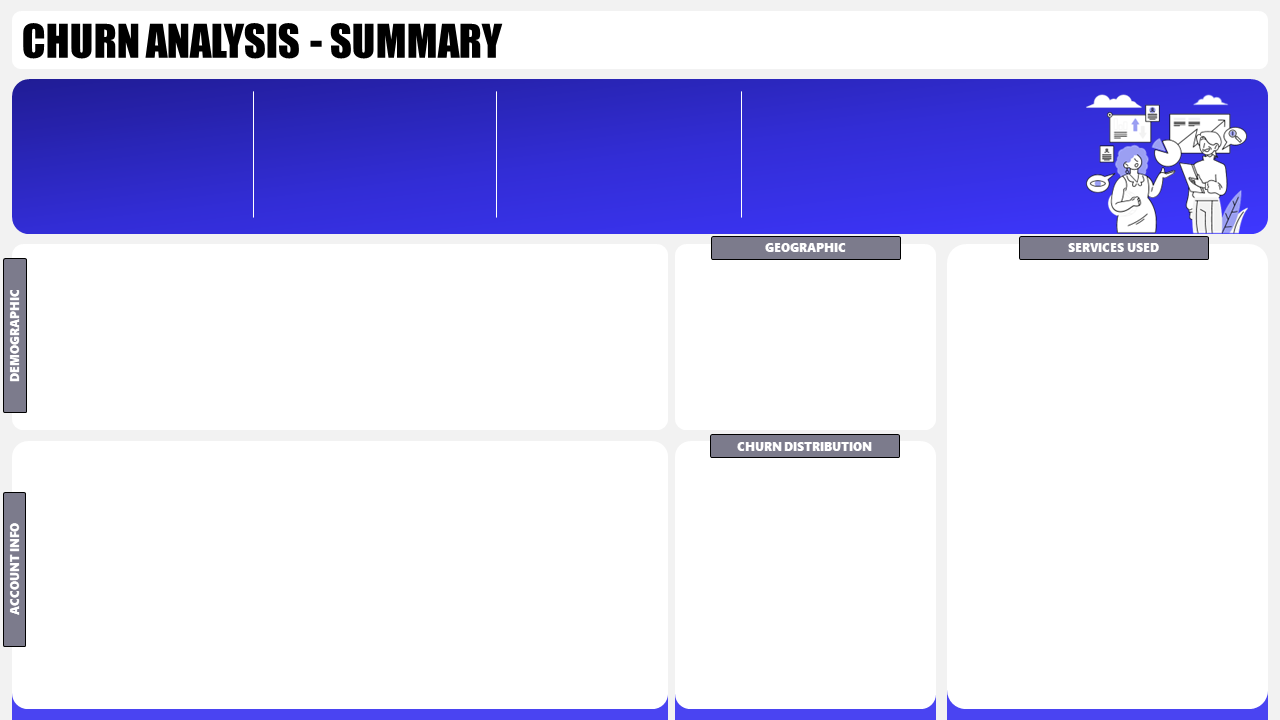
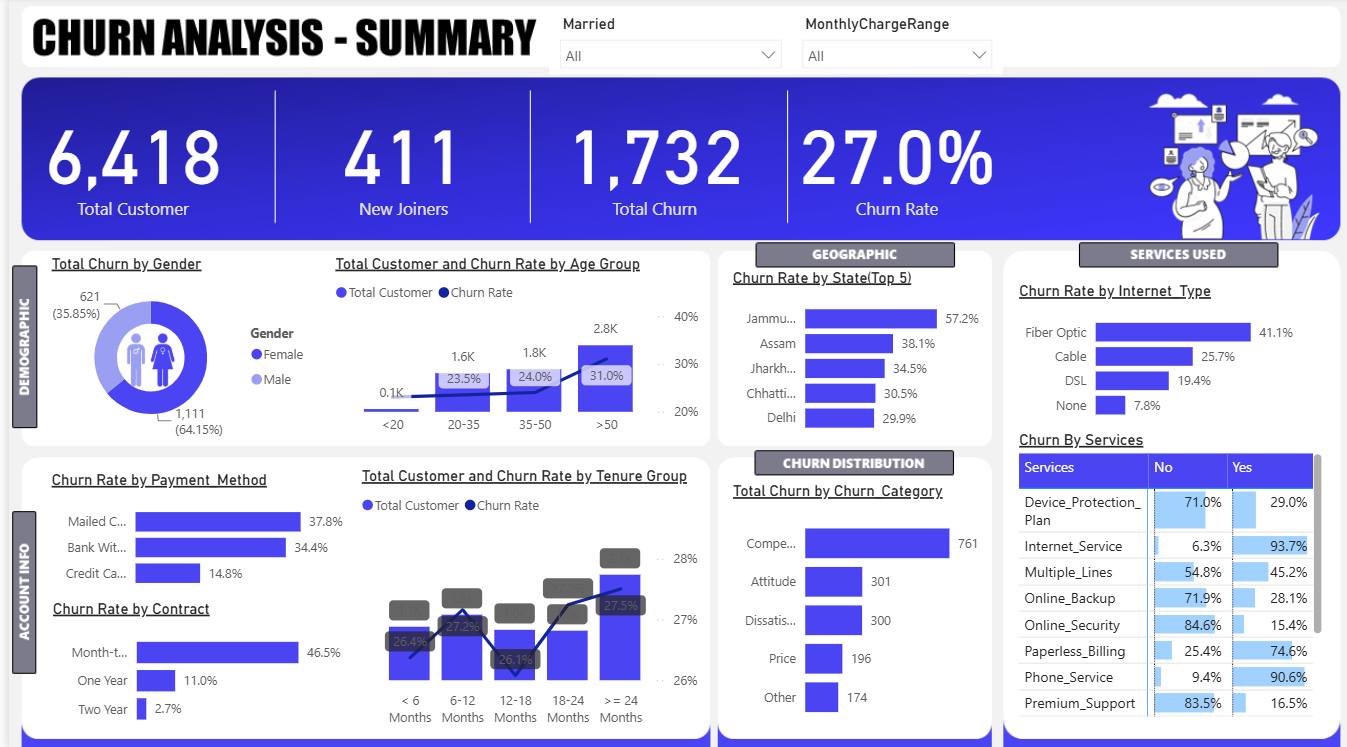
edited image

diff --git a/README.md b/README.md
@@ -25,7 +25,7 @@ An end-to-end telecom customer churn intelligence system combining **SQL Server 
 - [Key Business Insights & Recommendations](#-key-business-insights--recommendations)
 - [Installation & Setup](#-installation--setup)
 - [Tech Stack](#-tech-stack)
-- [Contributing & License](#-contributing--license)
+- [Contributing](#-contributing)
 
 ---
 
@@ -93,12 +93,12 @@ This project delivers a **full-lifecycle data intelligence solution** that trans
 
 ### Architecture Pipeline Breakdown
 
-| Pipeline Stage | Component | Key Operations | Output / Deliverable |
-|---|---|---|---|
-| **1. Data Ingestion** | CSV Dataset | Raw telecom records import (32 columns, 6,418 rows) | `Customer_Data.csv` |
-| **2. Storage & ETL** | Microsoft SQL Server | Null audits, category distribution, `ISNULL` cleansing | `prod_Churn`, `vw_ChurnData`, `vw_JoinData` |
-| **3. Machine Learning** | Python (Scikit-Learn, XGBoost) | Preprocessing, feature encoding, model evaluation | Evaluated models & churn risk predictions |
-| **4. BI & Analytics** | Power BI Desktop | Power Query transformations, DAX business logic | Multi-page interactive executive dashboards |
+| Pipeline Stage          | Component                      | Key Operations                                         | Output / Deliverable                        |
+| ----------------------- | ------------------------------ | ------------------------------------------------------ | ------------------------------------------- |
+| **1. Data Ingestion**   | CSV Dataset                    | Raw telecom records import (32 columns, 6,418 rows)    | `Customer_Data.csv`                         |
+| **2. Storage & ETL**    | Microsoft SQL Server           | Null audits, category distribution, `ISNULL` cleansing | `prod_Churn`, `vw_ChurnData`, `vw_JoinData` |
+| **3. Machine Learning** | Python (Scikit-Learn, XGBoost) | Preprocessing, feature encoding, model evaluation      | Evaluated models & churn risk predictions   |
+| **4. BI & Analytics**   | Power BI Desktop               | Power Query transformations, DAX business logic        | Multi-page interactive executive dashboards |
 
 ---
 
@@ -235,7 +235,7 @@ Tracks high-level telecom metrics, revenue at risk, churn distribution by geogra
 
 Monitors predicted churners from the machine learning model, customer vulnerability brackets, and service add-on adoption.
 
-![Prediction Dashboard](assets/images/Prediction.PNG)
+![Prediction Dashboard](assets/images/Prediction.jpg)
 
 ---
 
